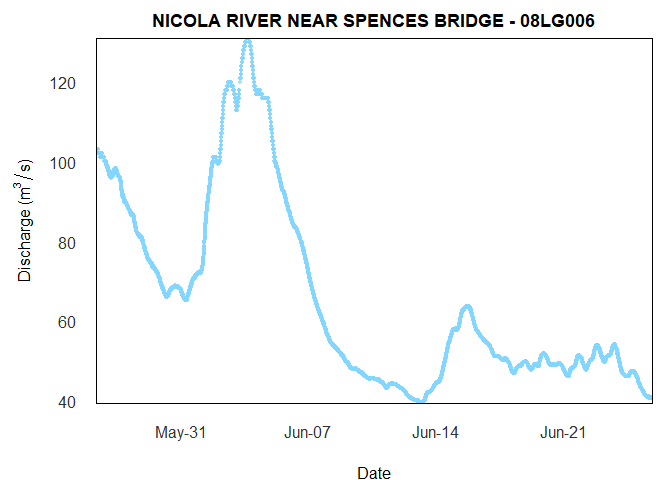
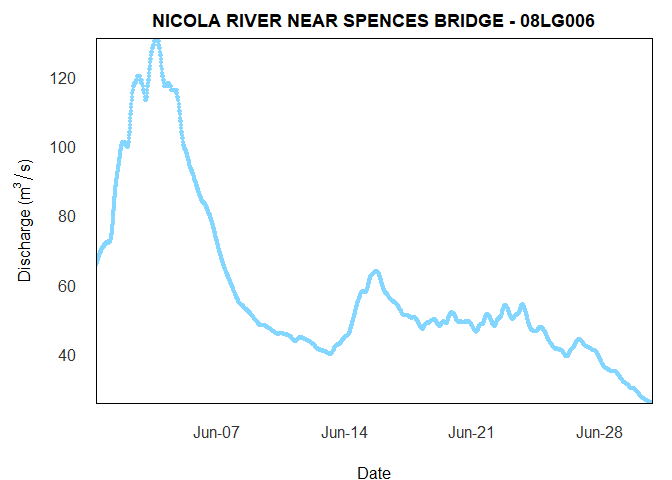
add r-universe badge

diff --git a/README.md b/README.md
@@ -13,6 +13,7 @@ status](https://github.com/ropensci/tidyhydat/workflows/R-CMD-check/badge.svg)](
 Downloads](https://cranlogs.r-pkg.org/badges/tidyhydat?color=brightgreen)](https://CRAN.R-project.org/package=tidyhydat)
 [![cran
 checks](https://cranchecks.info/badges/worst/tidyhydat)](https://cran.r-project.org/web/checks/check_results_tidyhydat.html)
+[![r-universe](https://ropensci.r-universe.dev/badges/tidyhydat)](https://ropensci.r-universe.dev/ui#builds)
 
 [![](http://badges.ropensci.org/152_status.svg)](https://github.com/ropensci/software-review/issues/152)
 [![DOI](http://joss.theoj.org/papers/10.21105/joss.00511/status.svg)](https://doi.org/10.21105/joss.00511)
@@ -88,22 +89,22 @@ the same conventions discussed above. Using `realtime_dd()` we can
 easily select specific stations by supplying a station of interest:
 
     realtime_dd(station_number = "08LG006")
-    #>   Queried on: 2021-06-25 21:59:45 (UTC)
-    #>   Date range: 2021-05-26 to 2021-06-25 
-    #> # A tibble: 17,556 x 8
+    #>   Queried on: 2021-06-30 23:09:36 (UTC)
+    #>   Date range: 2021-05-31 to 2021-06-30 
+    #> # A tibble: 17,604 x 8
     #>    STATION_NUMBER PROV_TERR_STATE_LOC Date                Parameter Value Grade
     #>    <chr>          <chr>               <dttm>              <chr>     <dbl> <chr>
-    #>  1 08LG006        BC                  2021-05-26 08:00:00 Flow        102 <NA> 
-    #>  2 08LG006        BC                  2021-05-26 08:05:00 Flow        102 <NA> 
-    #>  3 08LG006        BC                  2021-05-26 08:10:00 Flow        102 <NA> 
-    #>  4 08LG006        BC                  2021-05-26 08:15:00 Flow        102 <NA> 
-    #>  5 08LG006        BC                  2021-05-26 08:20:00 Flow        102 <NA> 
-    #>  6 08LG006        BC                  2021-05-26 08:25:00 Flow        102 <NA> 
-    #>  7 08LG006        BC                  2021-05-26 08:30:00 Flow        102 <NA> 
-    #>  8 08LG006        BC                  2021-05-26 08:35:00 Flow        103 <NA> 
-    #>  9 08LG006        BC                  2021-05-26 08:40:00 Flow        102 <NA> 
-    #> 10 08LG006        BC                  2021-05-26 08:45:00 Flow        102 <NA> 
-    #> # ... with 17,546 more rows, and 2 more variables: Symbol <chr>, Code <chr>
+    #>  1 08LG006        BC                  2021-05-31 08:00:00 Flow       65.3 <NA> 
+    #>  2 08LG006        BC                  2021-05-31 08:05:00 Flow       65.4 <NA> 
+    #>  3 08LG006        BC                  2021-05-31 08:10:00 Flow       65.4 <NA> 
+    #>  4 08LG006        BC                  2021-05-31 08:15:00 Flow       65.5 <NA> 
+    #>  5 08LG006        BC                  2021-05-31 08:20:00 Flow       65.5 <NA> 
+    #>  6 08LG006        BC                  2021-05-31 08:25:00 Flow       65.6 <NA> 
+    #>  7 08LG006        BC                  2021-05-31 08:30:00 Flow       65.6 <NA> 
+    #>  8 08LG006        BC                  2021-05-31 08:35:00 Flow       65.6 <NA> 
+    #>  9 08LG006        BC                  2021-05-31 08:40:00 Flow       65.6 <NA> 
+    #> 10 08LG006        BC                  2021-05-31 08:45:00 Flow       65.6 <NA> 
+    #> # ... with 17,594 more rows, and 2 more variables: Symbol <chr>, Code <chr>
 
 ### Plotting
 
